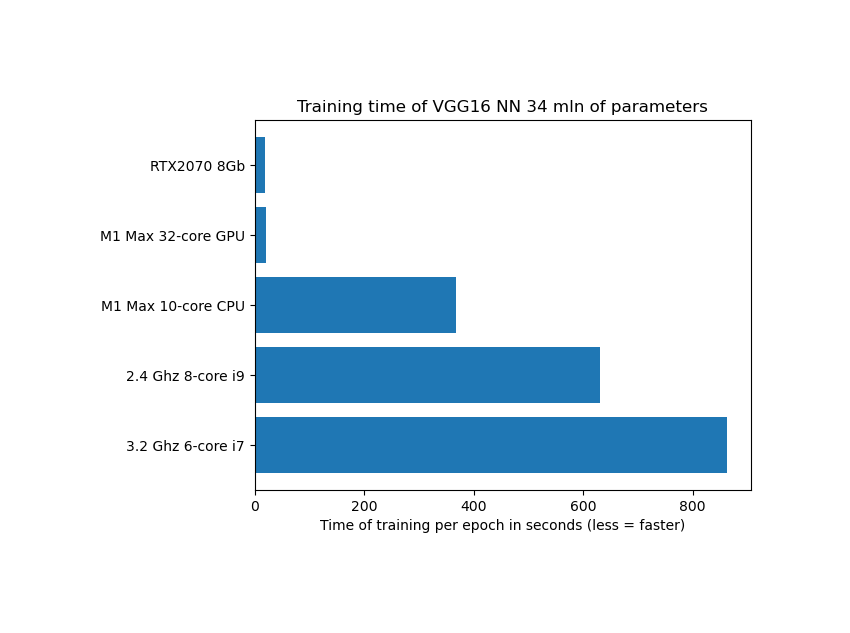
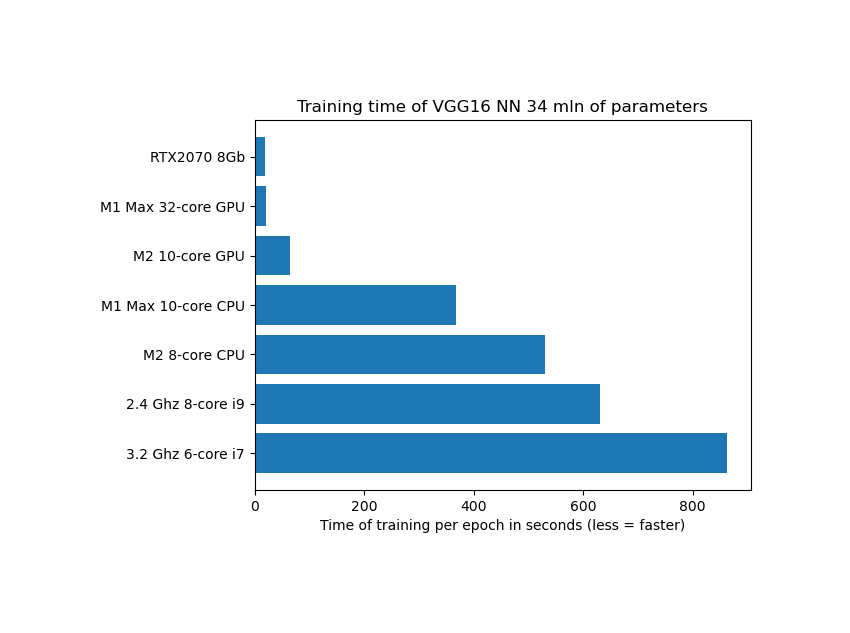
feat: add all examples for m2 air, updated viz

diff --git a/README.md b/README.md
@@ -55,10 +55,10 @@ Test results (comparison of different approaches):
 +-----------------------------------------------------------------------+-----+-------------------------------+----------------------------------------+---------------------------------------------------------+
 | Apple M1 Max with 10-core CPU, 32-core GPU, 64 Gb RAM                 | Y   | 106 sec                       | 127 sec                                | 21s/epoch, 54ms/step (size=128)                         |
 | Apple M1 Max with 10-core CPU, 32-core GPU, 64 Gb RAM CPU ONLY        | N   | 85 sec                        | 114 sec                                | 368s/epoch, 940ms/step (size=128)                       |                                  
-| Apple M2 with 8-core CPU, 10-core GPU, 24 Gb RAM                      | Y   | 109 sec                       | N/A                                    | N/A                                                     |                                  
-| Apple M2 with 8-core CPU, 10-core GPU, 24 Gb RAM CPU ONLY             | N   | 89 sec                        | N/A                                    | N/A                                                     |                                  
+| Apple M2 with 8-core CPU, 10-core GPU, 24 Gb RAM                      | Y   | 109 sec                       | 123 sec                                | 64s/epoch, 163ms/step (size=128)                        |                                  
+| Apple M2 with 8-core CPU, 10-core GPU, 24 Gb RAM CPU ONLY             | N   | 89 sec                        | 136 sec                                | 528s/epoch, 1s/step (size=128)                          |                                  
 | 2.4 Ghz 8-core i9 32 Gb RAM                                           | N   | 254 sec                       | 423 sec                                | 630s/epoch, 2s/step (size=128)                          |
 | Nvidia 8Gb GDDR6 RTX2070 Windows 10 Anaconda 32 Gb RAM                | Y   | 55 sec                        | 54 sec                                 | 18s/epoch, 43ms/step (size=128)                         |
-| Intel(R) Core(TM) i7-8700 CPU @ 3.20GHz Windows 10 Anaconda 32 Gb RAM | N   | 136 sec                       | 255 sec                                | 863 sec epoch  2s/step (size=128)                       |
+| Intel(R) Core(TM) i7-8700 CPU @ 3.20GHz Windows 10 Anaconda 32 Gb RAM | N   | 136 sec                       | 255 sec                                | 863s/epoch  2s/step (size=128)                          |
 +-----------------------------------------------------------------------+-----+-------------------------------+----------------------------------------+---------------------------------------------------------+
 ```
